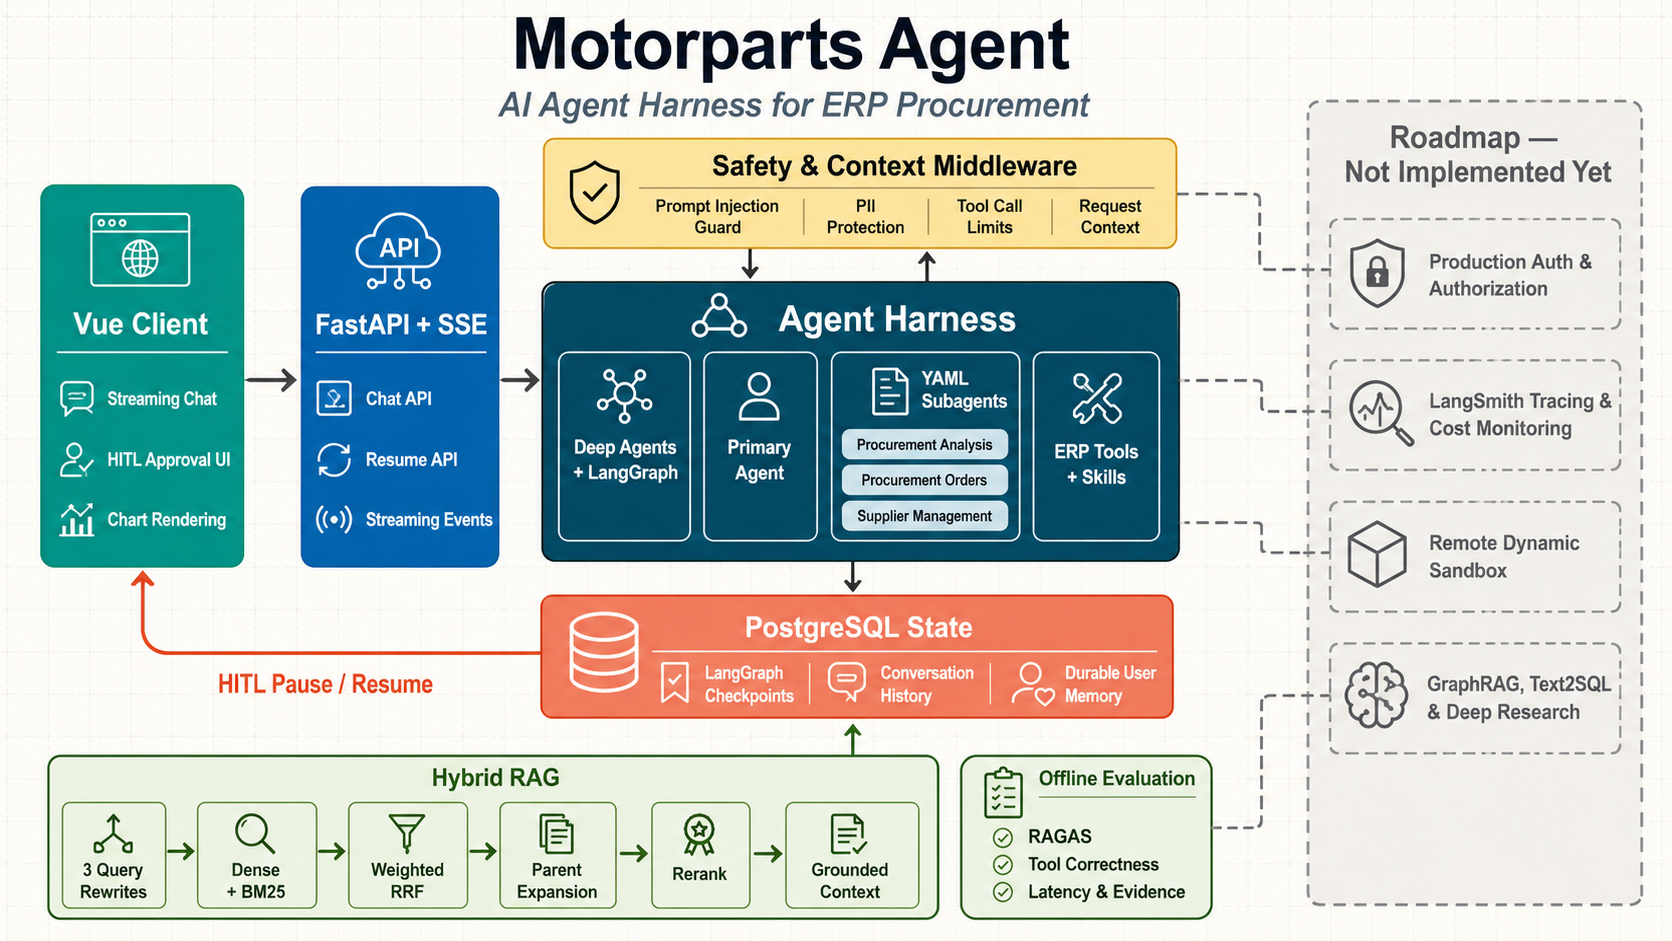
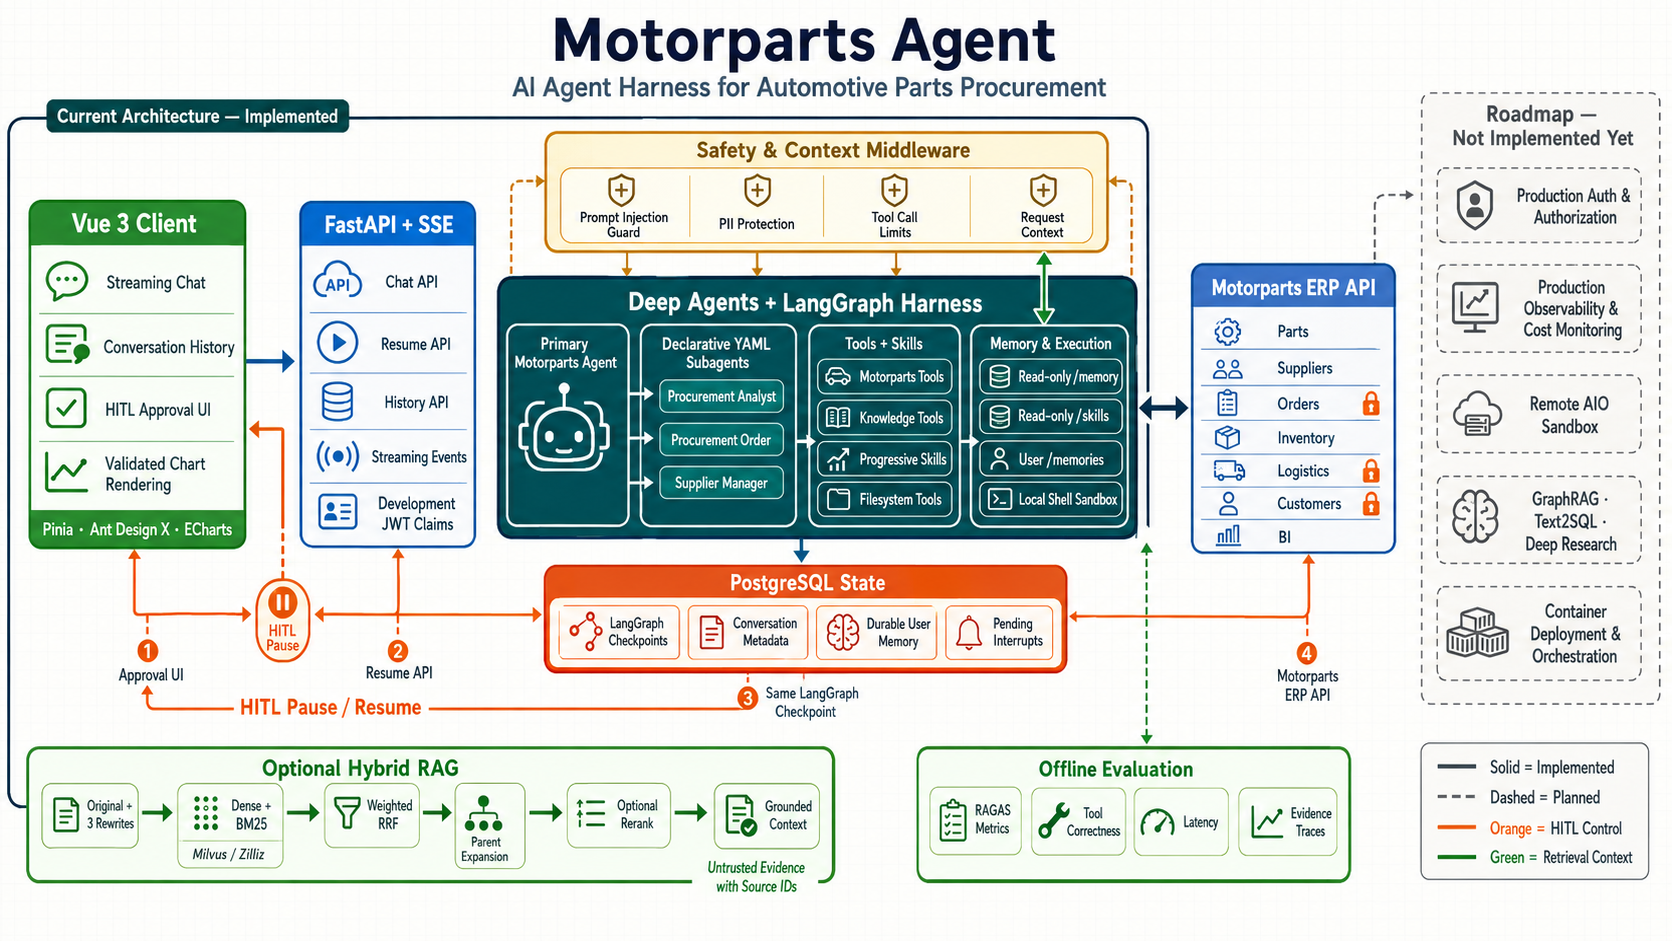
docs: add RAG enhancement to roadmap

diff --git a/README.md b/README.md
@@ -254,6 +254,7 @@ the backend at port 8000.
 ## Roadmap
 
 - Refactor and migrate the frontend to [assistant-ui](https://github.com/assistant-ui/assistant-ui), whose native LangChain and LangGraph support better aligns with the backend runtime.
+- RAG document parsing enhancement with Unstructured
 - Production-grade authentication and authorization.
 - LangSmith tracing, operational monitoring, and cost visibility.
 - Containerized deployment and environment orchestration.

diff --git a/README.zh-CN.md b/README.zh-CN.md
@@ -163,6 +163,7 @@ pnpm dev
 ## 路线图
 
 - 前端后续重构并迁移至 [assistant-ui](https://github.com/assistant-ui/assistant-ui)，利用其对 LangChain 和 LangGraph 的原生支持，更好地衔接后端 Agent 运行时。
+- 基于 Unstructured 优化 RAG 文档解析能力
 - 生产级认证和授权。
 - LangSmith 链路追踪、运行监控和成本可见性。
 - 容器化部署与环境编排。
